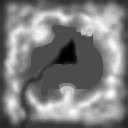
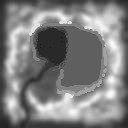
trees done, need positioning, map is wrong

Changed region(s): [[0.2188, 0.1562, 0.8438, 0.7812], [0.5625, 0.1875, 0.5938, 0.2188], [0.4062, 0.5, 0.4375, 0.5312]]

diff --git a/ProjB/MyLSPlant.js b/ProjB/MyLSPlant.js
@@ -1,0 +1,141 @@
+/**
+ * MyLSPlant
+ * @constructor
+ * @param scene - Reference to MyScene object
+ */
+class MyLSPlant extends CGFobject {
+	constructor(scene) {
+        super(scene);
+        this.init();
+        this.scaleFactor = 0.5;
+    }
+
+    init(){
+        // cria o lexico da gramática
+        this.initGrammar()
+
+    }
+
+    // cria o lexico da gramática
+    initGrammar(){
+        this.grammar = {
+            "F": new MyBranch(this.scene),
+            "X": new MyLeaf(this.scene)
+        };
+        // copia o axioma da cena para iniciar a sequência de desenvolvimento
+        this.axiom = "X";
+
+        // cria as producoes
+        this.productions={
+          "F": [ "FF" ],
+          "X": ["F[-X][X]F[-X]+FX", "F[-X][X]+X", "F[+X]-X", "F[/X][X]F[\\X]+X", "F[\X][X]/X", "F[/X]\X", "F[^X][X]F[&X]^X", "F[^X]&X", "F[&X]^X" ]                  
+        };
+
+        // angulo de rotacao 30
+        this.angle = Math.PI / 6;
+
+        // numero de iteracoes
+        this.iterations = 4;
+
+        // escalamento dos elementos dependente do numero de iteracoes
+        this.scale = Math.pow(0.5, this.iterations-1);
+
+        // desenvolve a sequencia de desenvolvimento do Sistema L
+        this.iterate();
+    }
+    // desenvolve o axioma ao longo de uma sequência de desenvolvimento com um determinado número de iterações
+    iterate(){
+        var i, j;
+        for (i=0; i < this.iterations; ++i){
+            var newString = "";
+
+            // substitui cada um dos caracteres da cadeia de caracteres de acordo com as produções
+            for (j=0; j<this.axiom.length; ++j){
+                var axiomProductions=this.productions[this.axiom[j]];
+                // aplicar producoes
+                if (axiomProductions === undefined){
+                    // caso nao se aplique nenhuma producao deixa estar o caracter original
+                    newString += this.axiom[j];
+                }else if (axiomProductions.length == 1) {
+                    // caso apenas exista uma producao, aplica-a
+                    newString += axiomProductions[0];
+                } else {
+                    // sistema estocastico - varias producoes sao aplicaveis - seleciona aleatoriamente
+                    newString += axiomProductions[Math.floor(((Math.random() * 10000)) % 1.0 * axiomProductions.length)];                    
+                }
+            }
+
+            this.axiom = newString;
+        }
+    }
+
+    display(){
+        this.scene.pushMatrix();
+        this.scene.scale(this.scale, this.scale, this.scale);
+
+        var i;
+
+        // percorre a cadeia de caracteres
+        for (i=0; i<this.axiom.length; ++i){
+
+            // verifica se sao caracteres especiais
+            switch(this.axiom[i]){
+                case "+":
+                    // roda a esquerda ZZ
+                    this.scene.rotate(this.angle, 0, 0, 1);
+                    break;
+
+                case "-":
+                    // roda a direita ZZ
+                    this.scene.rotate(-this.angle, 0, 0, 1);
+                    break;
+
+                case "\\":
+                    // roda a esquerda XX
+                    this.scene.rotate(this.angle, 1, 0, 0);
+                    break;
+
+                case "/":
+                    // roda a direita XX
+                    this.scene.rotate(-this.angle, 1, 0, 0);
+                    break;
+
+                case "^":
+                    // roda a esquerda YY
+                    this.scene.rotate(this.angle, 0, 1, 0);
+                    break;
+
+                case "&":
+                    // roda a direita YY
+                    this.scene.rotate(-this.angle, 0, 1, 0);
+                    break;
+
+                case "[":
+                    // push
+                    this.scene.pushMatrix();
+                    break;
+
+                case "]":
+                    // pop
+                    this.scene.popMatrix();
+                    break;
+
+                // processa primitiva definida na gramatica, se existir
+                default:
+                    var primitive=this.grammar[this.axiom[i]];
+
+                    if ( primitive )
+                    {
+                        if(this.axiom[i] == "F")
+                          this.scene.branchTxt.apply();
+                        else if(this.axiom[i] == "X")
+                          this.scene.leavesTxt.apply();
+                        primitive.display();
+                        this.scene.translate(0, 1, 0);
+                    }
+                    break;
+            }
+        }
+        this.scene.popMatrix();
+    }
+}

diff --git a/ProjB/MyScene.js b/ProjB/MyScene.js
@@ -27,6 +27,15 @@ class MyScene extends CGFscene {
         this.plane = new Plane(this, 32);
         this.bird = new MyBird(this);
         this.wing = new MyWing(this);
+        this.tree = new MyLSPlant(this);
+        this.n_trees = 4;
+        this.tree_axioms = []; //Vector for tree axioms
+
+        for(var i = 0; i < this.n_trees; i++){ //get vector values
+          this.tree_axioms.push(this.tree.axiom);
+          this.tree.axiom = "X";
+          this.tree.iterate();
+        }
 
         //Objects connected to MyInterface
         this.scaleFactor = 1;
@@ -45,6 +54,23 @@ class MyScene extends CGFscene {
         this.terrain = new CGFtexture(this, "images/terrain.jpg");
         this.terrainAp = new CGFappearance(this);
         this.terrainAp.setTexture(this.terrain);
+
+        this.branchTxt = new CGFappearance(this);
+        this.branchTxt.setAmbient(0.5, 0.5, 0.5, 1.0);
+        this.branchTxt.setDiffuse(.8, .8, .8, 1.0);
+        this.branchTxt.setSpecular(0, 0, 0, 1.0);
+        this.branchTxt.setShininess(10.0);
+        this.branchTxt.loadTexture('images/branch.jpg');
+        this.branchTxt.setTextureWrap('REPEAT', 'REPEAT');    
+    
+        this.leavesTxt = new CGFappearance(this);
+        this.leavesTxt.setAmbient(0.5, 0.5, 0.5, 1.0);
+        this.leavesTxt.setDiffuse(.8, .8, .8, 1.0);
+        this.leavesTxt.setSpecular(0.8, 0.8, 0.8, 1.0);
+        this.leavesTxt.setShininess(10.0);
+        this.leavesTxt.loadTexture('images/leaves.jpg');
+        this.leavesTxt.setTextureWrap('REPEAT', 'REPEAT');    
+    
     }
     initLights() {
         this.lights[0].setPosition(15, 2, 5, 1);
@@ -122,6 +148,15 @@ class MyScene extends CGFscene {
         // ---- BEGIN Primitive drawing section
         
         this.bird.display();
+
+
+        for(var i = 0; i < this.n_trees; i++){
+          this.pushMatrix();
+          this.translate(i * 4, 5, 0);
+          this.tree.axiom = this.tree_axioms[i];
+          this.tree.display();
+          this.popMatrix();
+        }
         
         this.setActiveShader(this.terrainShader);
         this.terrainAp.apply();

diff --git a/ProjB/main.js b/ProjB/main.js
@@ -2,7 +2,25 @@
 include=function(){function f(){var a=this.readyState;(!a||/ded|te/.test(a))&&(c--,!c&&e&&d())}var a=arguments,b=document,c=a.length,d=a[c-1],e=d.call;e&&c--;for(var g,h=0;c>h;h++)g=b.createElement("script"),g.src=arguments[h],g.async=!0,g.onload=g.onerror=g.onreadystatechange=f,(b.head||b.getElementsByTagName("head")[0]).appendChild(g)};
 serialInclude=function(a){var b=console,c=serialInclude.l;if(a.length>0)c.splice(0,0,a);else b.log("Done!");if(c.length>0){if(c[0].length>1){var d=c[0].splice(0,1);b.log("Loading "+d+"...");include(d,function(){serialInclude([]);});}else{var e=c[0][0];c.splice(0,1);e.call();};}else b.log("Finished.");};serialInclude.l=new Array();
 
-serialInclude(['../lib/CGF.js','MyScene.js', 'MyInterface.js', 'Plane.js', 'MyCone.js', 'MyCubeMap.js', 'MyCylinder.js', 'MyHouse.js', 'MyPyramid.js', 'MyTriangle.js', 'MyBird.js', 'MyQuad.js', 'MyWing.js', 'MySmallTriangle.js', 'MySquare.js',
+serialInclude(['../lib/CGF.js',
+               'MyScene.js', 
+               'MyInterface.js', 
+               'Plane.js', 
+               'MyCone.js', 
+               'MyCubeMap.js', 
+               'MyCylinder.js', 
+               'MyHouse.js', 
+               'MyPyramid.js', 
+               'MyTriangle.js', 
+               'MyBird.js', 
+               'MyQuad.js', 
+               'MyWing.js', 
+               'MySmallTriangle.js', 
+               'MySquare.js',
+               'MyBranch.js',
+               'MyLeaf.js',
+               'MyLSPlant.js',
+               'MyDiamond.js',
 
 main=function()
 {

diff --git a/ProjB/MyDiamond.js b/ProjB/MyDiamond.js
@@ -1,0 +1,60 @@
+/**
+ * MyDiamond
+ * @constructor
+ * @param scene - Reference to MyScene object
+ */
+class MyDiamond extends CGFobject {
+	constructor(scene) {
+		super(scene);
+		this.initBuffers();
+	}
+	initBuffers() {
+		this.vertices = [
+			-1, 0, 0,	//0
+			0, -1, 0,	//1
+			0, 1, 0,	//2
+      1, 0, 0,	//3
+      
+			-1, 0, 0,	//4
+			0, -1, 0,	//5
+			0, 1, 0,	//6
+			1, 0, 0		//7
+		];
+
+		//Counter-clockwise reference of vertices
+		this.indices = [
+			0, 1, 2,
+      1, 3, 2,
+      6, 5, 4,
+      6, 7, 5
+    ];
+    
+    this.normals = [
+      0, 0, 1,
+      0, 0, 1,
+      0, 0, 1,
+      0, 0, 1,
+      0, 0, -1,
+      0, 0, -1,
+      0, 0, -1,
+      0, 0, -1
+    ];
+
+		this.texCoords = [
+      0, 0,
+      1, 0,
+      1, 1,
+      0, 1,
+
+      0, 1,
+      1, 1,
+      1, 0,
+      0, 0      
+		];
+
+
+    this.primitiveType = this.scene.gl.TRIANGLES;
+		this.initGLBuffers();
+	}
+} 
+

diff --git a/ProjB/MyBird.js b/ProjB/MyBird.js
@@ -70,11 +70,11 @@ class MyBird extends CGFobject {
     //ang errado
     if(this.x > 30 || this.x < -30){
       this.x -= 2*this.speed * Math.sin(this.ang)
-      this.ang += Math.PI - (this.ang % (Math.PI/2));
+      this.ang += Math.PI - 2*(this.ang % (Math.PI/2));
     }
     if(this.z > 30 || this.z < -30){
       this.z -= this.speed * Math.cos(this.ang);
-      this.ang += Math.PI - (this.ang % (Math.PI / 2));
+      this.ang += Math.PI - 2*(this.ang % (Math.PI / 2));
     }
   }
   

diff --git a/ProjB/MyBranch.js b/ProjB/MyBranch.js
@@ -1,0 +1,25 @@
+/**
+ * MyBranch
+ * @constructor
+ * @param scene - Reference to MyScene object
+ */
+class MyBranch extends CGFobject {
+	constructor(scene) {
+    super(scene);
+    
+    this.normals = []; 
+
+    this.branch = new MyCylinder(this.scene, 4);
+
+  }
+  display(){
+    this.branch.display();
+  }
+  enableNormalViz(){
+    this.branch.enableNormalViz();
+  }
+  disableNormalViz(){
+    this.branch.disableNormalViz();
+  }
+} 
+

diff --git a/ProjB/MyLeaf.js b/ProjB/MyLeaf.js
@@ -1,0 +1,24 @@
+/**
+ * MyLeaf
+ * @constructor
+ * @param scene - Reference to MyScene object
+ */
+class MyLeaf extends CGFobject {
+	constructor(scene) {
+    super(scene);
+    
+    this.normals = []; 
+
+    this.leaf = new MyDiamond(this.scene);
+  }
+  display(){
+    this.leaf.display();
+  }
+  enableNormalViz(){
+    this.leaf.enableNormalViz();
+  }
+  disableNormalViz(){
+    this.leaf.disableNormalViz();
+  }
+} 
+
